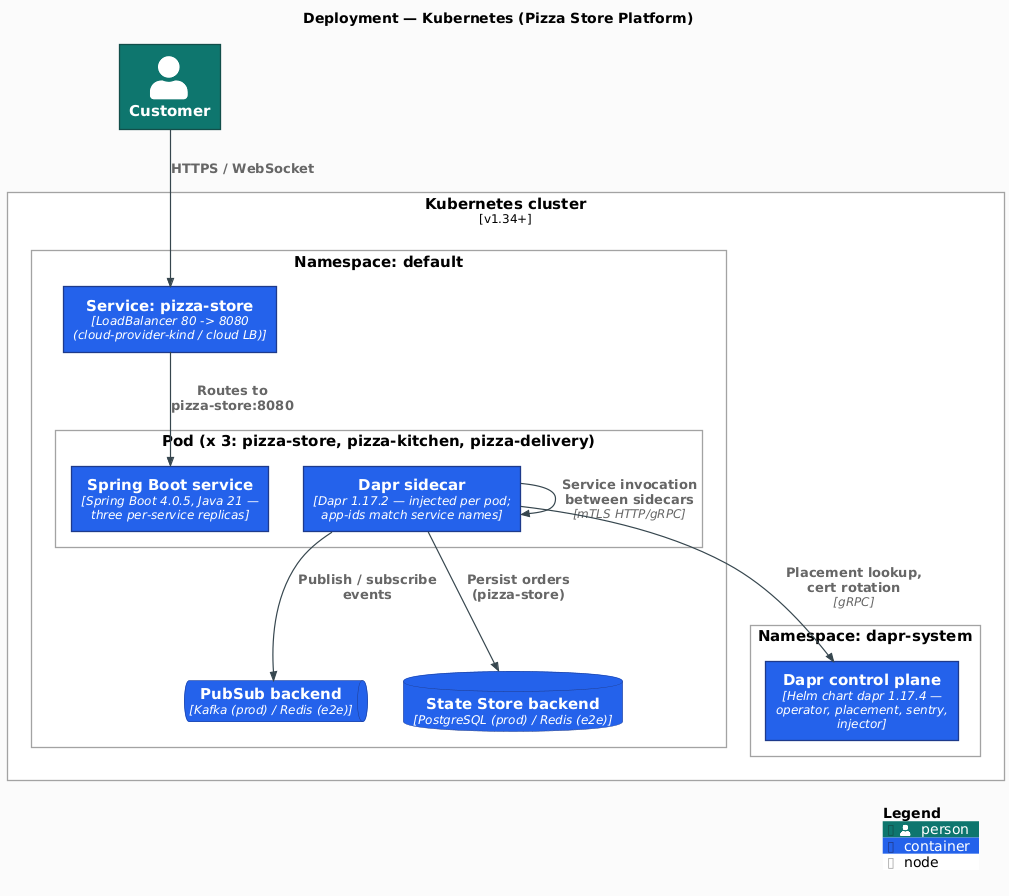
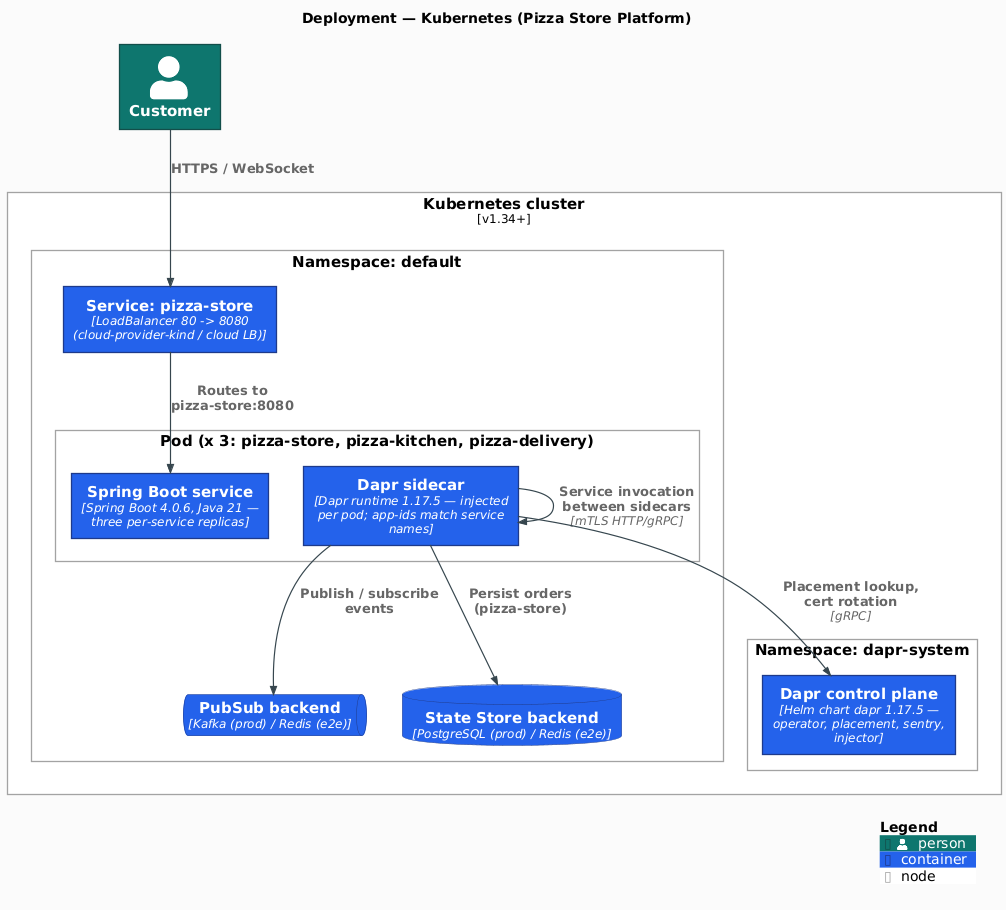
chore: remove salaboy references; refresh diagrams + harden mermaid-lint (#70)
* chore: remove all salaboy references; refresh README and screenshot

User-visible content and branding cleanup. The salaboy/* upstream
images were already retired in v0.1.2 in favour of first-party
ghcr.io/andriykalashnykov/dapr-java/pizza-* builds; this commit
removes the remaining textual references throughout the codebase
and the now-defunct one-shot mirror tooling.

Content / branding:
- index.html: GitHub link points at AndriyKalashnykov/dapr-java;
  customer name shown as "Customer"
- app.js: placeOrder() body uses Customer / customer@example.com
- 4× order.json + 3× event-*.json fixtures: name/email/event-type
  switched to Customer / customer@example.com / com.dapr.pizza.event
- PizzaStoreTest.java: same three replacements
- imgs/pizza-store.png: regenerated from a fresh KinD run with the
  new branding; events panel populated via puppeteer-driven UI flow

Mirror tooling retirement:
- scripts/mirror-salaboy-images.sh: deleted
- README.md: drop the `make mirror-images` row
- CLAUDE.md: drop the `make mirror-images` line and rewrite the
  v0.1.2 GHCR-retirement backlog entry without the salaboy reference
- .github/workflows/ci.yml: clean up the legacy "Retires the
  external salaboy/pizza-* dependency" comment

README sync (companion to the /readme review pass run this session):
- Drop "aligns with Spring Cloud 2025" from Spring Boot rationale
  (project has no spring-cloud dep)
- Add `make image-scan` row in Code Quality table
[…]

diff --git a/pizza-store/src/main/resources/static/index.html b/pizza-store/src/main/resources/static/index.html
@@ -20,11 +20,11 @@
     <header>
         <div class="pizza-place">
             <h1>Pizza Store</h1>
-            <h2><a href="https://github.com/salaboy/pizza">https://github.com/salaboy/pizza</a></h2>
+            <h2><a href="https://github.com/AndriyKalashnykov/dapr-java">https://github.com/AndriyKalashnykov/dapr-java</a></h2>
         </div>
         <div class="pizza-order">
             <h5>Your order:</h5>
-            <p>Name: Salaboy</p>
+            <p>Name: Customer</p>
             <p>Address: KubeCon NA - Chicago</p>
             <p>Credit Card: 4444-5555-2222-3333</p>
             <div class="pizza-item">

diff --git a/pizza-store/src/main/resources/static/app.js b/pizza-store/src/main/resources/static/app.js
@@ -133,8 +133,8 @@ function placeOrder() {
         method: "POST",
         body: JSON.stringify({
             customer: {
-                name: "salaboy",
-                email: "salaboy@mail.com",
+                name: "Customer",
+                email: "customer@example.com",
             },
             items: [
                 {

diff --git a/pizza-store/src/test/java/io/diagrid/dapr/PizzaStoreTest.java b/pizza-store/src/test/java/io/diagrid/dapr/PizzaStoreTest.java
@@ -64,7 +64,7 @@ public class PizzaStoreTest {
     with()
         .body(
             new Order(
-                new Customer("salaboy", "salaboy@mail.com"),
+                new Customer("Customer", "customer@example.com"),
                 Arrays.asList(new OrderItem(PizzaType.pepperoni, 1))))
         .contentType(ContentType.JSON)
         .when()
@@ -90,13 +90,13 @@ public class PizzaStoreTest {
         """
         {
             "specversion": "1.0",
-            "type": "com.salaboy.event",
+            "type": "com.dapr.pizza.event",
             "data": {
                 "type": "order-in-preparation",
                 "service": "kitchen",
                 "message": "Your Order is in the kitchen.",
                 "order": {
-                    "customer": {"name": "salaboy", "email": "salaboy@mail.com"},
+                    "customer": {"name": "Customer", "email": "customer@example.com"},
                     "items": [{"type": "pepperoni", "amount": 1}],
                     "id": "test-order-1",
                     "orderDate": "2023-10-31T18:13:55.571+00:00",

diff --git a/CLAUDE.md b/CLAUDE.md
@@ -32,7 +32,6 @@ make diagrams-check                     # Verify committed PNGs match .puml sour
 make mermaid-lint                       # Lint Mermaid fenced blocks via minlag/mermaid-cli (static-check gate)
 make image-build                        # Build all three service images via spring-boot:build-image and tag :e2e
 make image-scan                         # Scan built images for HIGH/CRITICAL CVEs with fixes (closes Paketo/CNB Renovate blind spot)
-make mirror-images                      # One-shot: mirror salaboy/pizza-*:0.1.0 → ghcr.io/andriykalashnykov (requires docker login ghcr.io)
 make clean                              # Remove build artifacts
 make run                                # Run the application
 make ci                                 # Local CI: clean, deps, static-check, test, integration-test, build, coverage-check (cve-check is separate — run manually before a release tag)
@@ -169,7 +168,7 @@ Last reviewed: 2026-04-25
 - [ ] **Add C4 Context hero diagram to README** — deferred until PlantUML toolchain and `make diagrams-check` lint are introduced (mermaid-lint not wired today). Follow-up `/architecture-diagrams`.
 - [x] **Paketo/CNB builder blind spot — added `image-scan` target** — `make image-scan` runs `trivy image --severity HIGH,CRITICAL` against each `pizza-*:e2e` OCI image after `image-build`. Wired into the `e2e` job so CI fails on layer-level CVEs that `trivy-fs` (filesystem) and `cve-check` (Maven deps) both miss. (2026-04-20)
 - [x] **Dapr Helm bump to 1.17.5** — chart now at 1.17.5 via `DAPR_HELM_VERSION`. Java SDK/testcontainers-dapr stay at 1.17.2 (latest stable on Maven Central; `io.dapr.spring:dapr-spring-boot-4-starter` 1.17.3 is RC-only — re-visit on GA). Runtime-ahead-of-SDK is the normal Dapr Java cadence. (2026-04-20)
-- [x] **`salaboy/pizza-*:0.1.0` prod images retired** — manifests (`k8s/pizza-*.yaml`, `k8s-dapr-shared/apps.yaml`) now reference `ghcr.io/andriykalashnykov/pizza-*`. (1) First-party build pipeline: new `publish-images` job in `ci.yml`, tag-gated, runs after e2e, uses `make image-scan` to build + scan, pushes `:<version>` and `:latest` to GHCR. (2) One-shot mirror: `scripts/mirror-salaboy-images.sh` (exposed as `make mirror-images`) copies the current upstream `:0.1.0` bits into your GHCR so the manifests resolve today; run once after `docker login ghcr.io`. Renovate `kubernetes` manager now enabled (`renovate.json`) so manifest image tags are auto-tracked. (2026-04-20)
+- [x] **First-party OCI images on GHCR** — manifests (`k8s/pizza-*.yaml`, `k8s-dapr-shared/apps.yaml`) reference `ghcr.io/andriykalashnykov/pizza-*`. New `publish-images` job in `ci.yml` is tag-gated, runs after e2e, uses `make image-scan` to build + scan, then pushes `:<version>` and `:latest` to GHCR. Renovate `kubernetes` manager enabled (`renovate.json`) so manifest image tags are auto-tracked. (2026-04-20)
 - [x] **GHCR first-publish write_package fix** — `GITHUB_TOKEN` cannot create new packages at `ghcr.io/<owner>/<package>` (user-namespace), regardless of `packages: write` scope, OCI source label, or repo workflow permissions. Must publish at `ghcr.io/<owner>/<repo>/<package>` (repo-namespace) for `GITHUB_TOKEN` to work on the first push — that's the documented, supported path. Fix touches `.github/workflows/ci.yml` `publish-images` (inject `REPO` segment), `k8s/pizza-*.yaml` + `k8s-dapr-shared/apps.yaml` image lines, and `Makefile` `kind-deploy` sed. Preserves `BP_OCI_SOURCE` label for auto-linking in the UI. Shipped as v0.1.2. (Also required `default_workflow_permissions` repo setting to be `read` or `write` — either works for repo-namespace packages, whereas user-namespace needs PAT.) (2026-04-20)
 - [x] **Pre-release gate closes image-scan blind spot** — `make ci` and `make ci-run` do NOT exercise `image-scan` (it lives downstream of `kind-deploy`). First v0.1.0 tag push failed in CI when Trivy found 3 HIGH Go-stdlib CVEs in Paketo helper binaries that no local gate ever ran against. Fix: new `make pre-release` bundles every slow gate missing from `make ci` — `cve-check` (advisory with a 300 s `timeout` wrapper: the OWASP dep-check plugin can spin 20+ min in an internal retry loop against the NVD deserializer bug without exiting non-zero, so the soft-fail `||` alone was not bounded) + `image-scan` (strict). `make release` depends on `pre-release`, so a tag cannot be written without the scan gate passing. `.trivyignore` documents the currently-accepted Paketo-upstream CVEs with the reasoning + tracker links required for removal. When upstream fixes the NVD deserializer, drop the timeout wrapper. (2026-04-20)
 

diff --git a/README.md b/README.md
@@ -30,7 +30,7 @@ C4Context
 | Component | Technology | Rationale |
 |-----------|-----------|-----------|
 | Language | Java 21 LTS | Current LTS with virtual threads and pattern matching |
-| Framework | Spring Boot 4.0.6 | Current GA; aligns with Spring Cloud 2025 |
+| Framework | Spring Boot 4.0.6 | Current GA; provides embedded Tomcat, auto-configuration, and Actuator |
 | Runtime sidecar | Dapr 1.17.5 (Helm) / 1.17.2 (Testcontainers) | Provides PubSub, State Store, Service Invocation APIs. Helm chart on KinD/prod runs ahead of the Java SDK; Testcontainers pins to the SDK version |
 | Dapr SDK | `dapr-spring-boot-4-starter` 1.17.2 | Latest stable on Maven Central; 1.17.3 is RC-only |
 | HTTP server | Embedded Tomcat 11.0.21 | Pinned in `dependencyManagement` to address CVEs |
@@ -260,7 +260,8 @@ Run `make help` to see all available targets.
 | `make secrets` | Scan git history and tree for leaked secrets (gitleaks) |
 | `make deps-prune` | Analyze Maven dependencies (advisory) |
 | `make deps-prune-check` | Fail if unused declared Maven dependencies exist |
-| `make cve-check` | OWASP dependency vulnerability scan (run manually before pushing a release tag) |
+| `make cve-check` | OWASP dependency vulnerability scan (advisory; bundled into `make pre-release` with a 300 s timeout wrapper) |
+| `make image-scan` | Scan built `pizza-*:e2e` OCI images for HIGH/CRITICAL CVEs with fixes (closes Paketo/CNB blind spot that `trivy-fs` and `cve-check` miss) |
 | `make coverage-generate` | Generate JaCoCo coverage report (merged surefire + failsafe) |
 | `make coverage-check` | Verify merged coverage meets minimum threshold (80%) |
 | `make coverage-open` | Open coverage report in browser |
@@ -317,7 +318,8 @@ Run `make help` to see all available targets.
 | `make print-deps-updates` | Print project dependency updates |
 | `make update-deps` | Update dependencies to latest releases |
 | `make renovate-validate` | Validate Renovate configuration |
-| `make release VERSION=x.y.z` | Create a semver release tag (run `make cve-check` first) |
+| `make pre-release` | Pre-release gate: `cve-check` (advisory, 300 s timeout) + `image-scan` (strict). Required before `make release` |
+| `make release VERSION=x.y.z` | Create a semver release tag (auto-runs `make pre-release`) |
 
 ## CI/CD
 
@@ -346,7 +348,7 @@ Set secrets via **Settings > Secrets and variables > Actions > New repository se
 ## Resources and References
 
 - [Dapr For Java Developers](https://dzone.com/articles/dapr-for-java-developers)
-- [Platform Engineering on Kubernetes Book](http://mng.bz/jjKP?ref=salaboy.com)
+- [Platform Engineering on Kubernetes Book](http://mng.bz/jjKP)
 - [Cloud Native Local Development with Dapr and Testcontainers](https://www.diagrid.io/blog/cloud-native-local-development)
 
 ## Contributing
